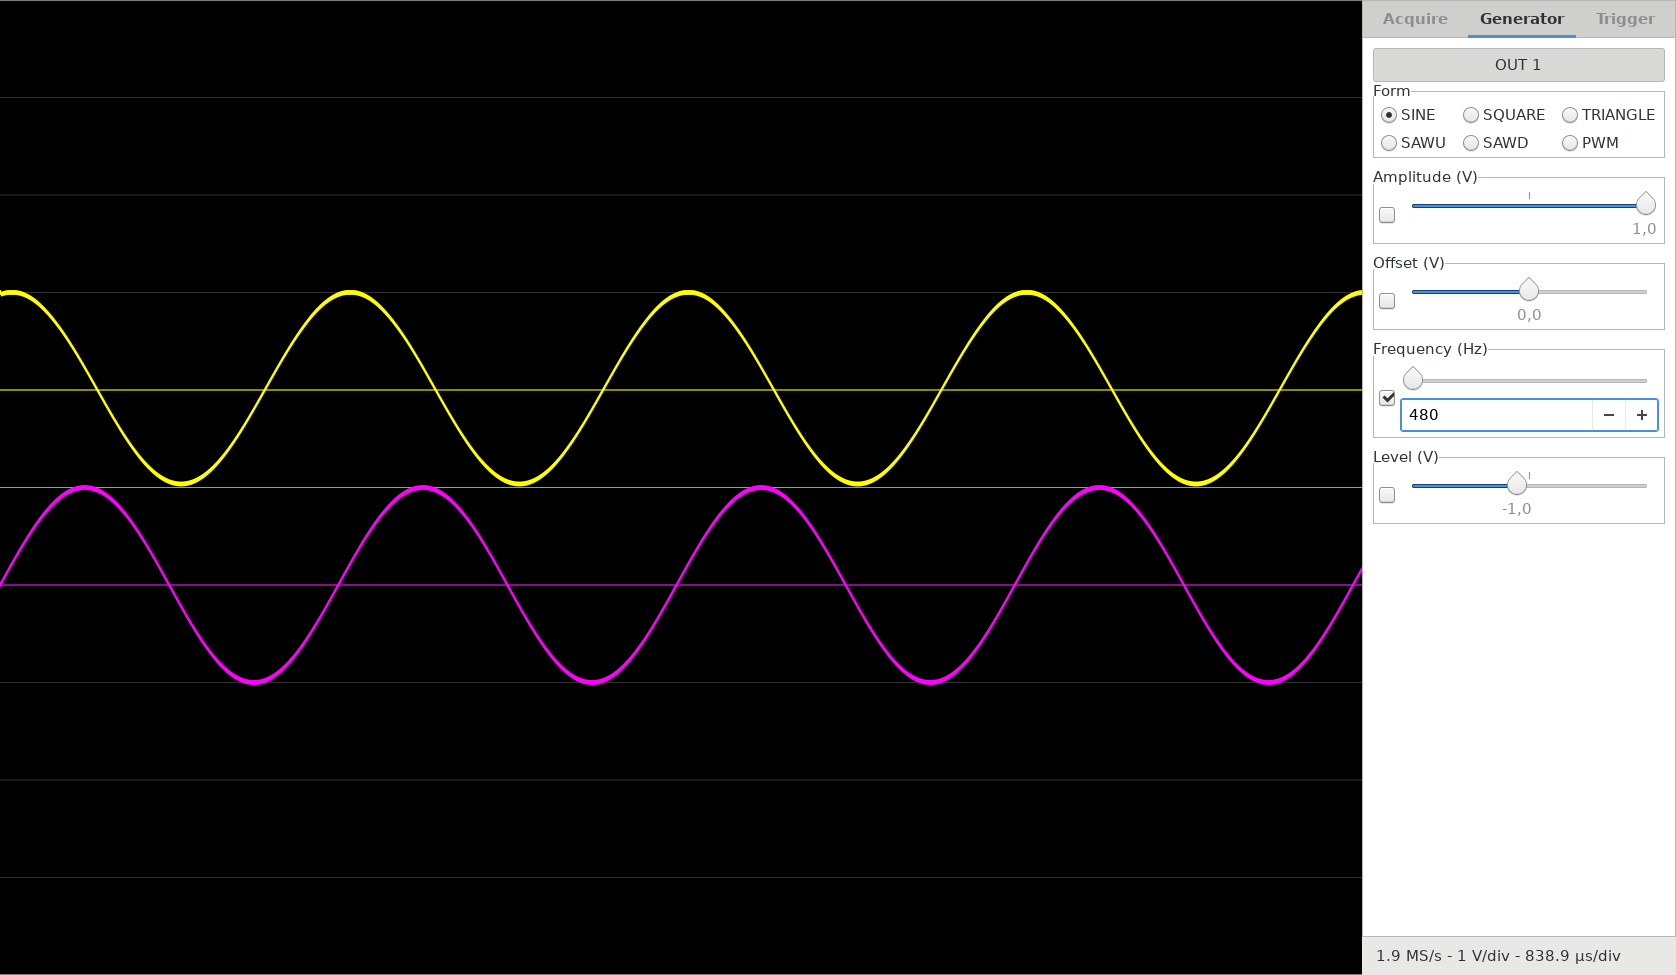
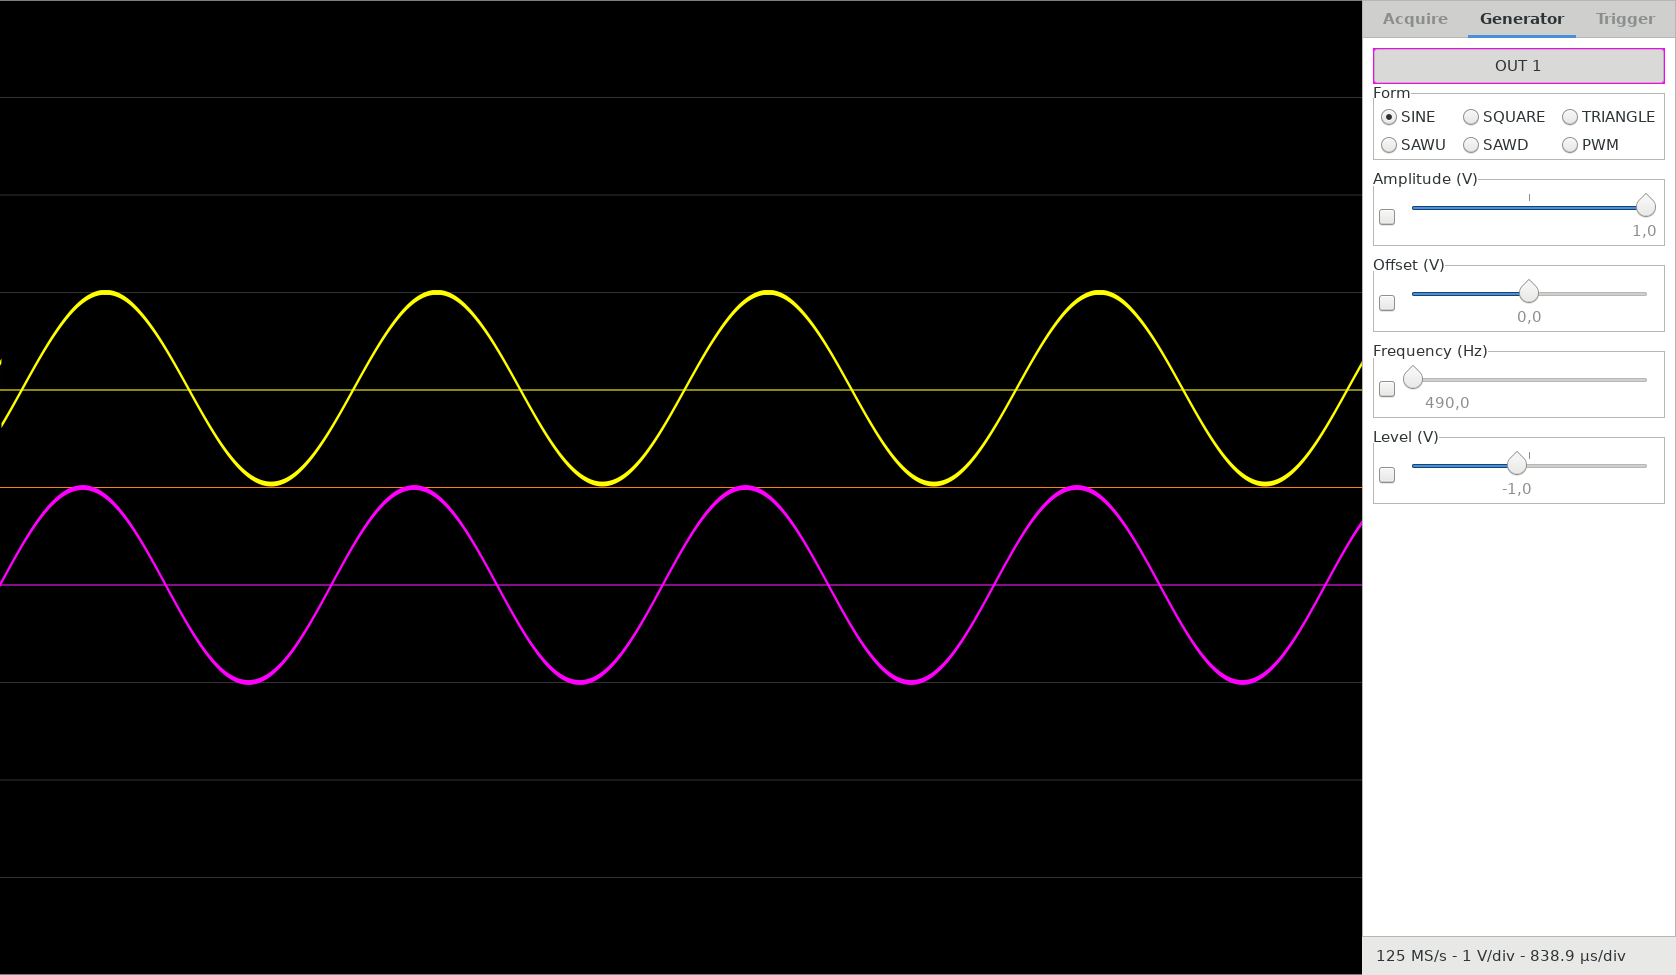
Add color around palette button

diff --git a/src/widget/mod.rs b/src/widget/mod.rs
@@ -1,3 +1,4 @@
+use glib::translate::ToGlibPtr;
 use gtk::{
     self,
     BoxExt,
@@ -135,13 +136,17 @@ impl ::relm::Widget for Palette {
     view! {
         gtk::Box {
             orientation: gtk::Orientation::Vertical,
-            #[name="toggle"]
-            gtk::ToggleButton {
-                toggled(w) => if w.get_active() {
-                    Signal::Expand
-                } else {
-                    Signal::Fold
-                }
+            #[name="border"]
+            gtk::EventBox {
+                #[name="toggle"]
+                gtk::ToggleButton {
+                    border_width: 1,
+                    toggled(w) => if w.get_active() {
+                        Signal::Expand
+                    } else {
+                        Signal::Fold
+                    }
+                },
             },
             #[name="parent"]
             gtk::Box {
@@ -156,7 +161,7 @@ impl Palette {
         self.toggle.set_label(label);
     }
 
-    pub fn add<W>(&self, child: &W) where W: gtk::IsA<gtk::Widget>{
+    pub fn add<W>(&self, child: &W) where W: gtk::IsA<gtk::Widget> {
         self.parent.add(child);
     }
 
@@ -167,5 +172,22 @@ impl Palette {
     pub fn fold(&self) {
         self.parent.hide();
         self.toggle.set_active(false);
+    }
+
+    pub fn set_color(&self, color: ::color::Color) {
+        let color = ::gdk_sys::GdkColor {
+            pixel: 32,
+            red: color.0 as u16 * ::std::u16::MAX,
+            green: color.1 as u16 * ::std::u16::MAX,
+            blue: color.2 as u16 * ::std::u16::MAX,
+        };
+
+        unsafe {
+            ::gtk_sys::gtk_widget_modify_bg(
+                self.border.to_glib_none().0,
+                ::gtk_sys::GtkStateType::Normal,
+                &color
+            );
+        }
     }
 }

diff --git a/src/application/graph.rs b/src/application/graph.rs
@@ -1,4 +1,4 @@
-use application::color::Colorable;
+use color::Colorable;
 use gtk::{
     WidgetExt,
 };
@@ -47,20 +47,20 @@ impl ::application::Panel for Widget {
         let width = scales.get_width();
         let height = scales.get_height();
 
-        context.set_color(::application::color::BACKGROUND);
+        context.set_color(::color::BACKGROUND);
         context.rectangle(scales.h.0, scales.v.0, width, height);
         context.fill();
 
-        context.set_color(::application::color::MAIN_SCALE);
+        context.set_color(::color::MAIN_SCALE);
 
         context.rectangle(scales.h.0, scales.v.0, width, height);
         context.stroke();
 
         for i in 1..10 {
             if i == 5 {
-                context.set_color(::application::color::MAIN_SCALE);
+                context.set_color(::color::MAIN_SCALE);
             } else {
-                context.set_color(::application::color::SECONDARY_SCALE);
+                context.set_color(::color::SECONDARY_SCALE);
             }
 
             let x = width / 10.0 * (i as f64);

diff --git a/src/application/generator.rs b/src/application/generator.rs
@@ -1,4 +1,4 @@
-use application::color::Colorable;
+use color::Colorable;
 use gtk::{
     BoxExt,
     ButtonExt,
@@ -152,6 +152,7 @@ impl ::relm::Widget for Widget {
 
         let palette = page.add_widget::<::widget::Palette, _>(&relm, ());
         palette.widget().set_label("OUT 1");
+        palette.widget().set_color(::color::OUT1);
         connect!(palette@::widget::Signal::Expand, relm, Signal::Start(::redpitaya_scpi::generator::Source::OUT1));
         connect!(palette@::widget::Signal::Fold, relm, Signal::Stop(::redpitaya_scpi::generator::Source::OUT1));
 
@@ -274,7 +275,7 @@ impl ::application::Panel for Widget {
             return;
         }
 
-        context.set_color(::application::color::OUT1);
+        context.set_color(::color::OUT1);
 
         let level = self.level.widget().get_value();
         context.translate(0.0, level);

diff --git a/src/application/acquire.rs b/src/application/acquire.rs
@@ -1,4 +1,4 @@
-use application::color::Colorable;
+use color::Colorable;
 use relm::ContainerWidget;
 
 #[derive(Clone)]
@@ -84,7 +84,7 @@ impl ::application::Panel for Widget {
             return;
         }
 
-        context.set_color(::application::color::IN1);
+        context.set_color(::color::IN1);
 
         let level = self.level.widget().get_value();
         context.translate(0.0, level);
@@ -115,6 +115,7 @@ impl ::relm::Widget for Widget {
 
         let palette = page.add_widget::<::widget::Palette, _>(&relm, ());
         palette.widget().set_label("IN 1");
+        palette.widget().set_color(::color::IN1);
         connect!(palette@::widget::Signal::Expand, relm, Signal::Start);
         connect!(palette@::widget::Signal::Fold, relm, Signal::Stop);
 

diff --git a/src/application/trigger.rs b/src/application/trigger.rs
@@ -1,4 +1,4 @@
-use application::color::Colorable;
+use color::Colorable;
 use gtk::{
     BoxExt,
     ButtonExt,
@@ -174,7 +174,7 @@ impl ::relm::Widget for Widget {
 
 impl ::application::Panel for Widget {
     fn draw(&self, context: &::cairo::Context, scales: ::Scales) {
-        context.set_color(::application::color::TRIGGER);
+        context.set_color(::color::TRIGGER);
 
         context.move_to(scales.h.0, self.level.widget().get_value());
         context.line_to(scales.h.1, self.level.widget().get_value());

diff --git a/src/main.rs b/src/main.rs
@@ -3,8 +3,10 @@
 extern crate cairo;
 extern crate env_logger;
 extern crate glib;
+extern crate gdk;
 extern crate gdk_sys;
 extern crate gtk;
+extern crate gtk_sys;
 #[macro_use]
 extern crate relm;
 extern crate relm_attributes;
@@ -15,6 +17,7 @@ extern crate log;
 extern crate redpitaya_scpi;
 
 mod application;
+mod color;
 mod widget;
 
 use ::relm::Widget;

diff --git a/src/color.rs b/src/color.rs
@@ -1,4 +1,4 @@
-type Color = (f64, f64, f64, f64);
+pub type Color = (f64, f64, f64, f64);
 
 pub const BACKGROUND: Color = (0.0, 0.0, 0.0, 1.0);
 pub const MAIN_SCALE: Color = (1.0, 1.0, 1.0, 1.0);

diff --git a/src/application/mod.rs b/src/application/mod.rs
@@ -1,5 +1,4 @@
 mod acquire;
-mod color;
 mod generator;
 mod graph;
 mod trigger;
